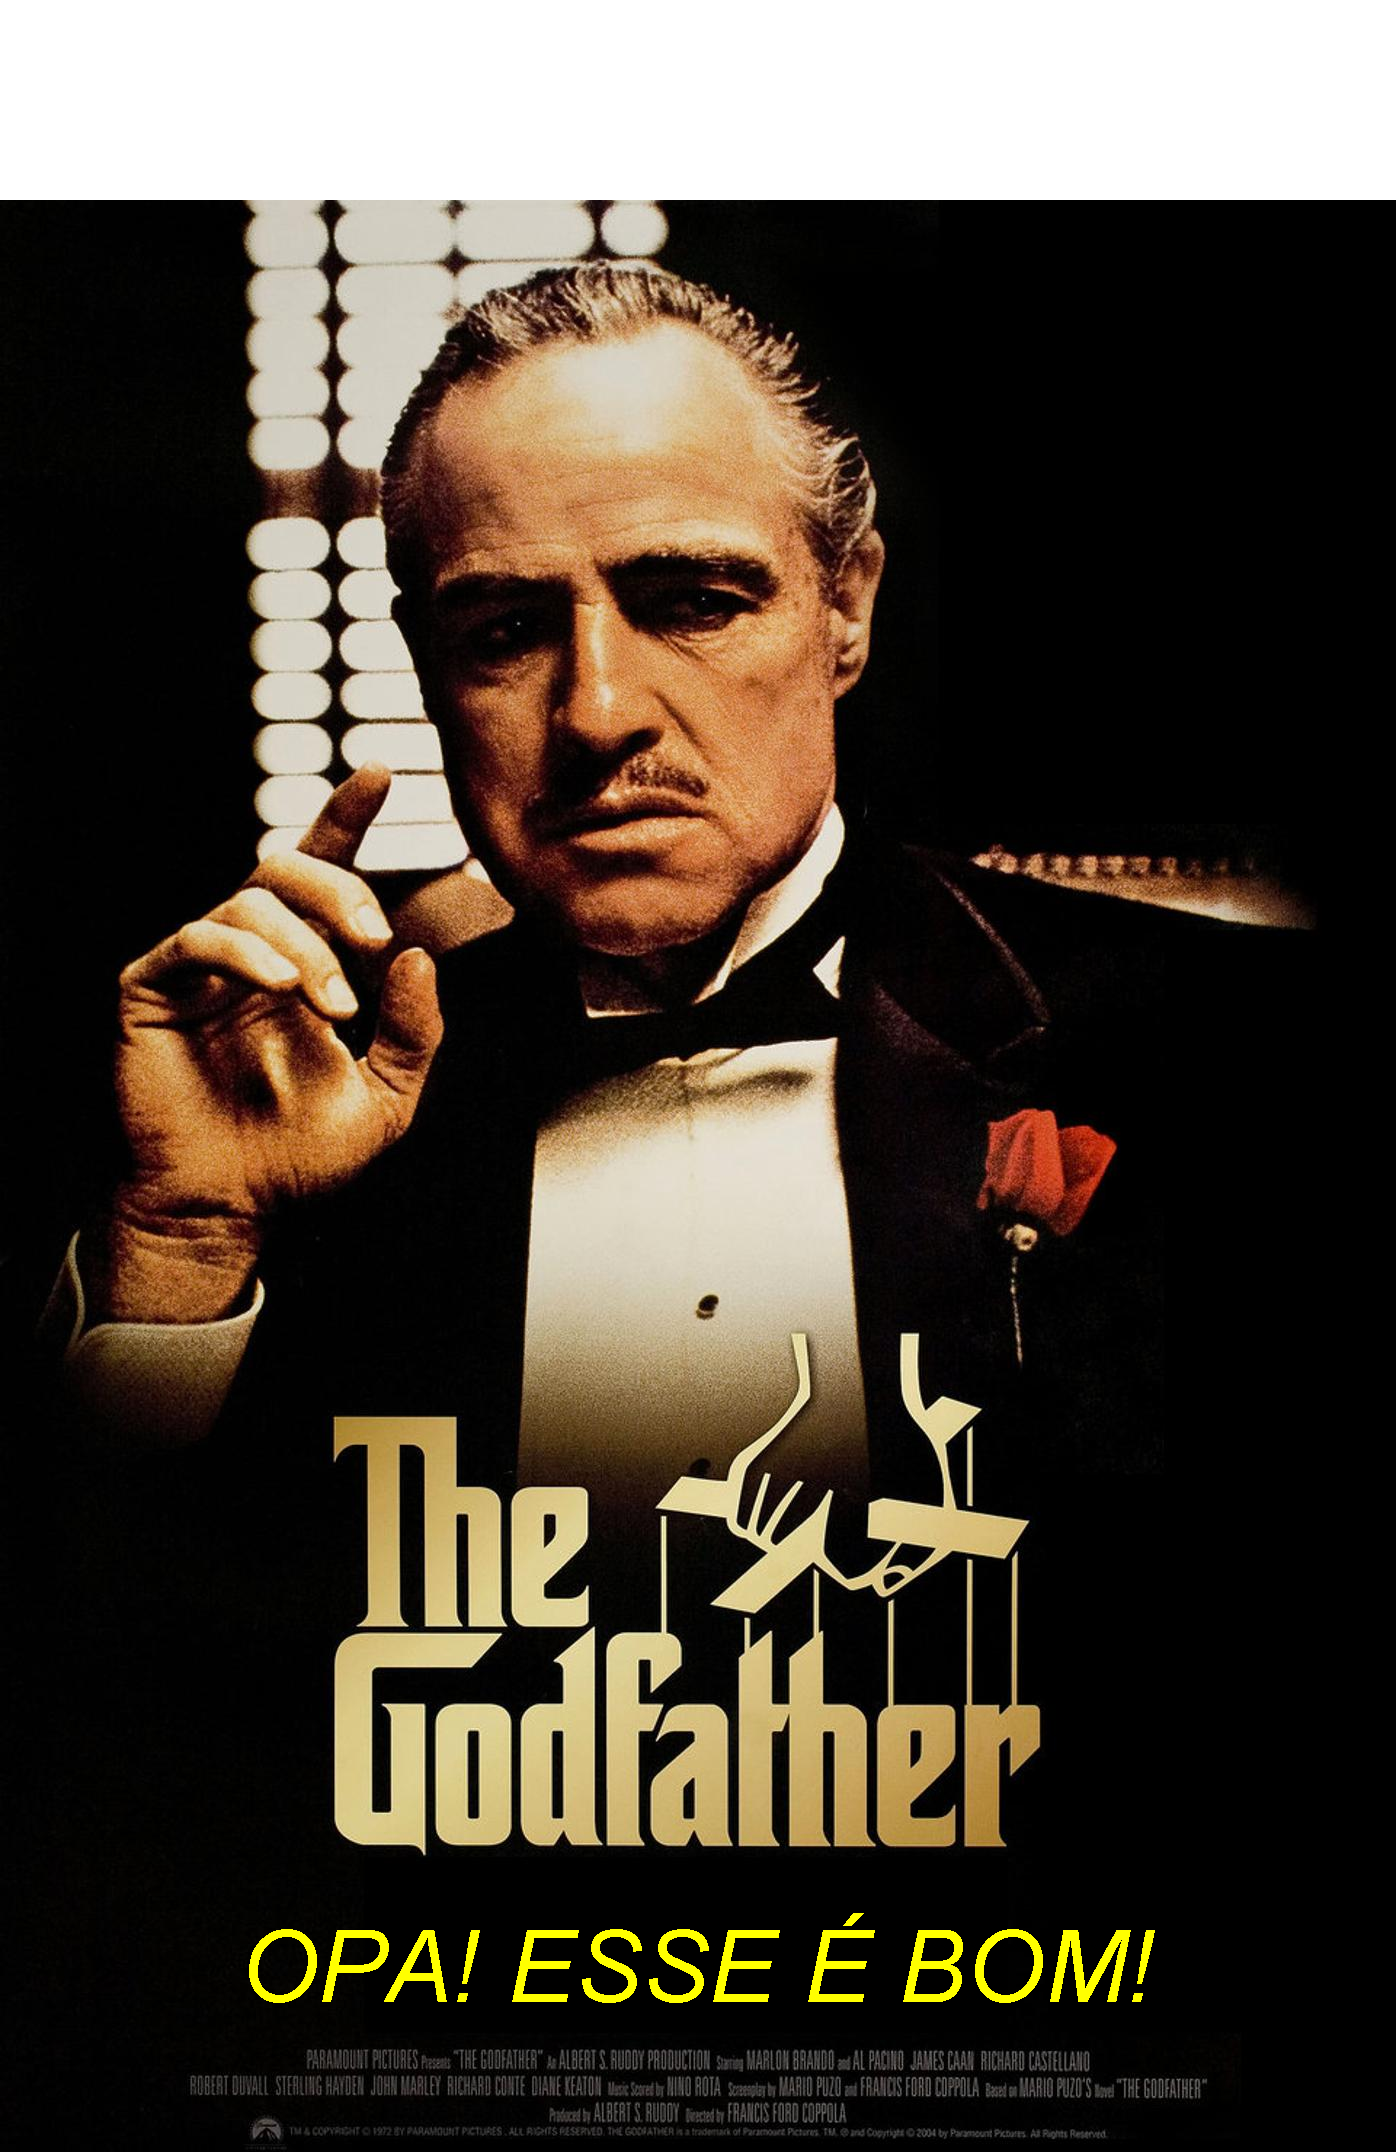
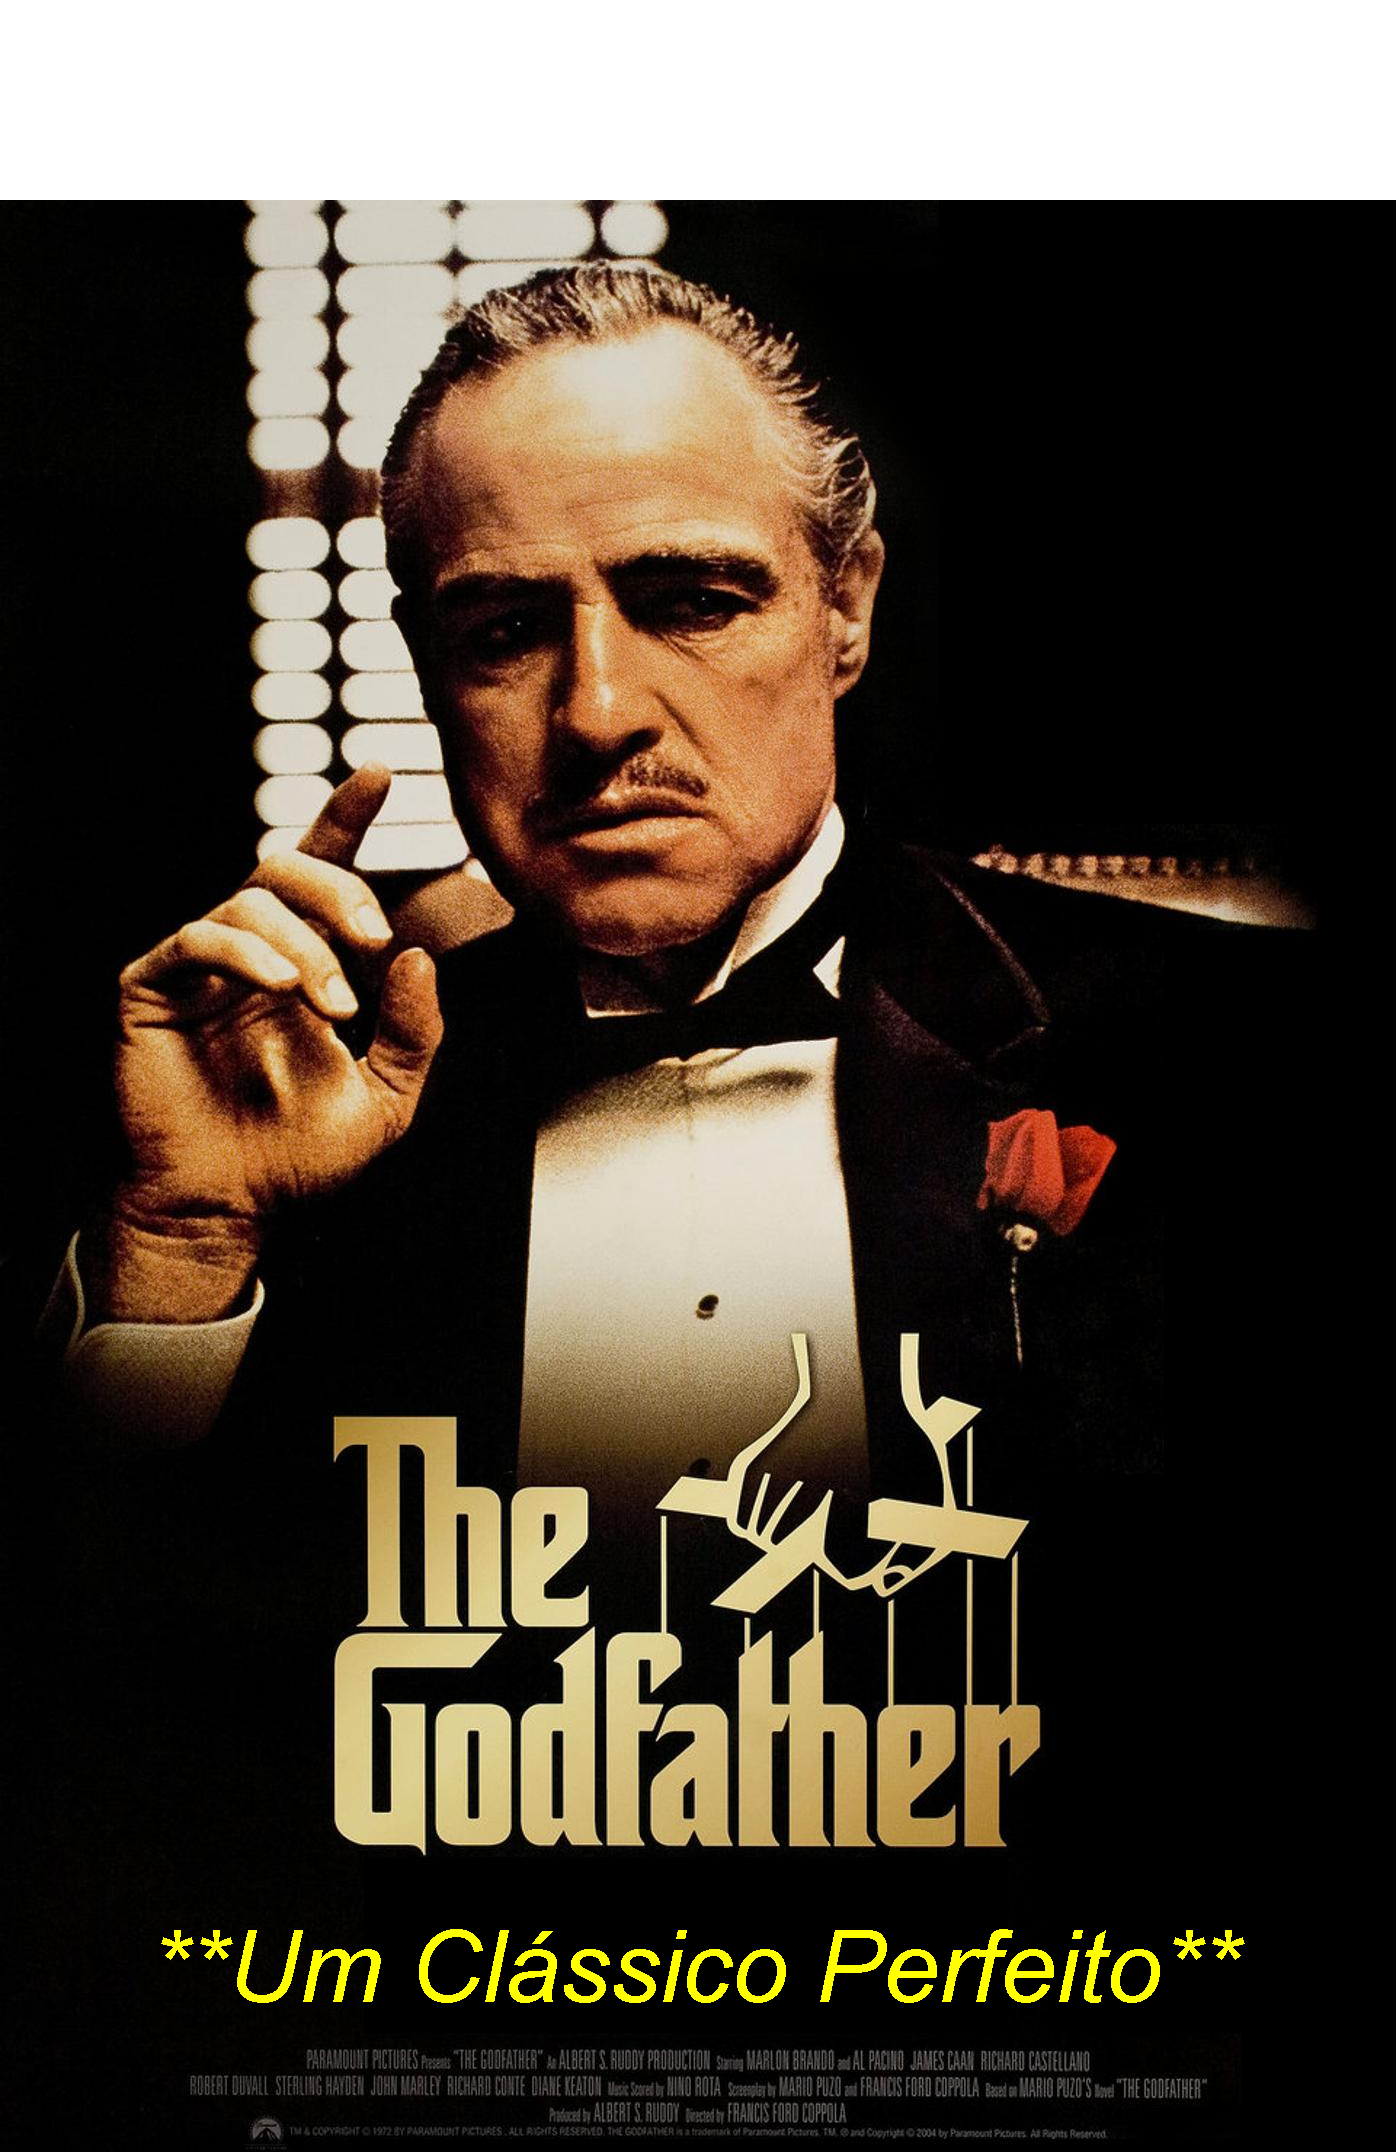
aula02 finalizada

Changed region(s): [[0.1232, 0.8717, 0.8317, 0.934]]

diff --git a/aula02/src/GeradoradFigurinhas.java b/aula02/src/GeradoradFigurinhas.java
@@ -36,7 +36,7 @@ public class GeradoradFigurinhas {
         graphics.setFont(fonte);
 
         // escrever uma frase na nova imagem
-        graphics.drawString("OPA! ESSE É BOM!", 240, novaAltura - 150);
+        graphics.drawString("**Um Clássico Perfeito**", 150, novaAltura - 150);
 
     
         // escrever a nova imagem em um arquivo
